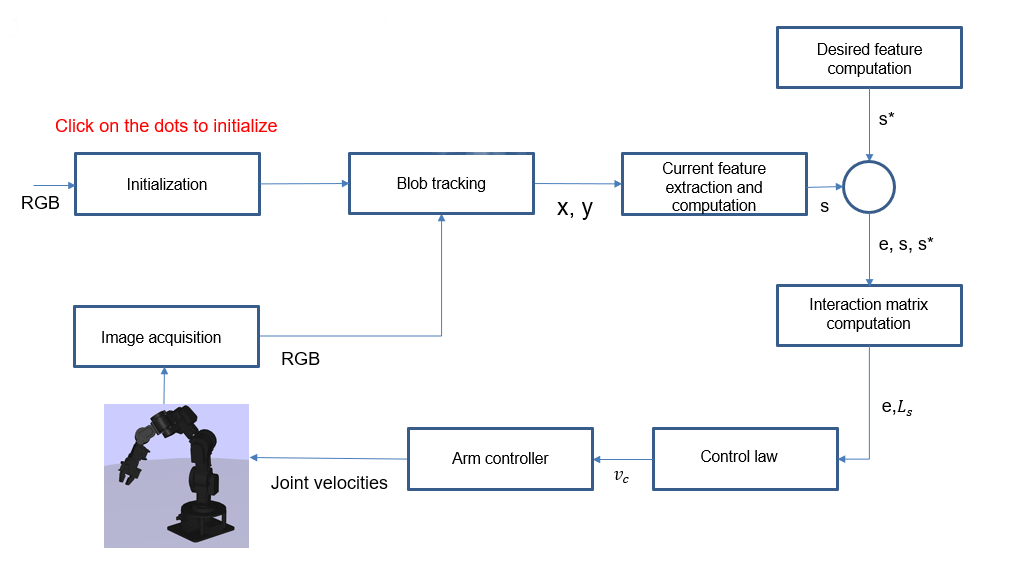
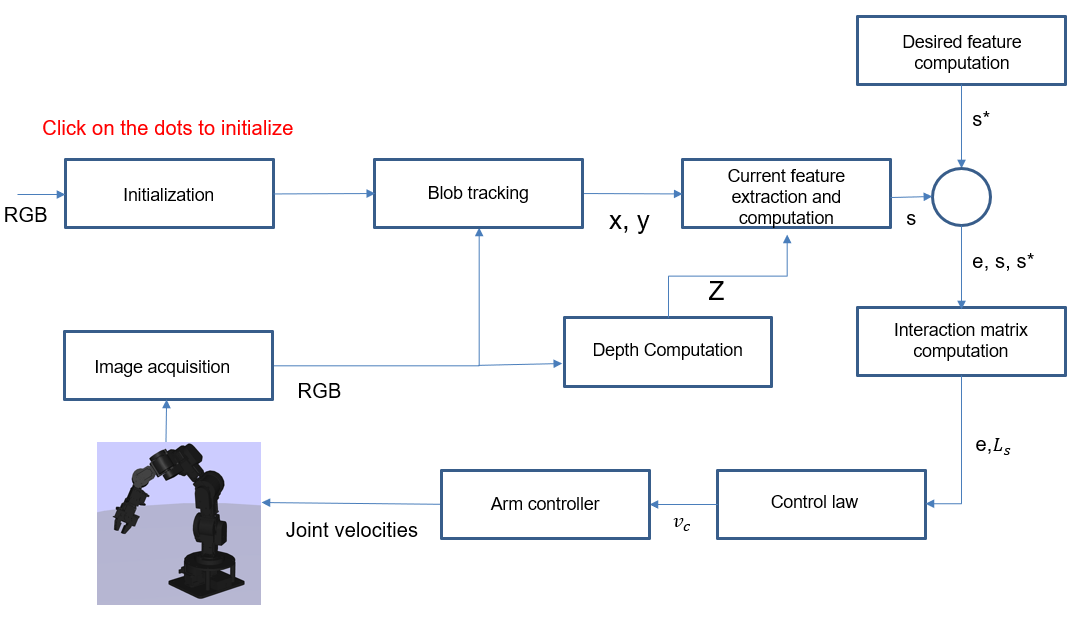
implementation section finish

diff --git a/chapters/Implementation.tex b/chapters/Implementation.tex
@@ -1,5 +1,4 @@
 %TEX root = ../dissertation.tex
-
 \chapter{Implementation}
 \label{chapter:Implementation}
 
@@ -20,7 +19,7 @@ Trajectory is planned, from the current pose to the desired pose, before the man
 
 \subsection{PBVS}
 
-During the period of my internship, another student was working at the time, on the development on a new controller for the arm. This work was based on developing an optimization based Cartesian controller for the arm (from an input desired pose and the current position of the end effector computing joint velocities to reach the desired pose with constraints on joint position). Combining this work with a pose estimation algorithm developed by another student using also YOLO, a \gls{PBVS} is implemented (\ref{chap:pbvs}). It is using the head camera of the robot, so an EYE-TO-HAND configuration (figure:\ref{pict:eye_in_hand}).
+During the period of my internship, another student was working at the time, on the development on a new controller for the manipulator. This work was based on developing an optimization based Cartesian controller for the manipulator (from an input desired pose and the current position of the end effector computing joint velocities to reach the desired pose with constraints on joint position). Combining this work with a pose estimation algorithm developed by another student using also YOLO, a \gls{PBVS} is implemented (\ref{chap:pbvs}). It is using the head camera of the robot, so an EYE-TO-HAND configuration (figure:\ref{pict:eye_in_hand}).
 \begin{figure} [!ht]
     \centering
     \includegraphics[width=0.95\linewidth]{images/pbvs.png}
@@ -28,7 +27,7 @@ During the period of my internship, another student was working at the time, on 
     \label{pict:pbvs_emilia}
 \end{figure}
 
-This controller is combining motion of the base and the arm. It has been designed as an optimization problem. For now, it applied constraints to avoid joint limits.
+This controller is combining motion of the base and the manipulator. It has been designed as an optimization problem. For now, it applied constraints to avoid joint limits.
 
 \section{Developed solutions}
 \label{developed_solution}
@@ -53,6 +52,7 @@ The two major benefits of using an \gls{IBVS} in a grasping approach are:
 In the next subsection, the tools used for this work will be described hardware and software.
 
 \subsection{Hardware and Software}
+\label{HardwareSoftware}
 To achieved the design and implementation of the previously described approach, we did not start from scratch. We used existing libraries, software and also of course an already very advanced robot  hardware speaking robot, Mbot.
 \subsubsection{Software}
 \begin{itemize}
@@ -102,10 +102,10 @@ Gazebo is a simulation software that is highly compatible with ROS development. 
     \item 
 \gls{YOLO} is a convolutional neural network used in this work to detect and extract features. It has been described in the the chapter \ref{chapter:Background} in section \ref{Object_detection}.
     \item 
-Controlling arm servos (sending commands to the joints of the arm), to this purpose two possibilities:
+Controlling manipulator servos (sending commands to the joints of the manipulator), to this purpose two possibilities:
     \begin{enumerate}
-        \item  An inverse kinematic controller, that take as input a desired velocity vector of the end effector and compute the corresponding joint velocities to achieve the desired velocity for the end effector. This "controller" only controls the arm and not the arm and the base of the robot combined to be able to reach a larger area when having a grasping approach. The well known problem when using inverse kinematic as described in section \ref{chap:inversekinematics} is singularities and local minima.
-        \item An optimization forward kinematic controller, developed during the time of my internship to use with his work on \gls{PBVS}. This "controller" controls the arm and the base at the same time. It takes as input a pose in world frame and output the joint velocities, more information on the section \ref{Previous_architecture}. Since it is an early development many problems appeared using this controller, like when doing the optimization not using the last joint or not taking as input velocities. One of my work was to convert this controller to be able to end effector velocities as input.
+        \item  An inverse kinematic controller, that take as input a desired velocity vector of the end effector and compute the corresponding joint velocities to achieve the desired velocity for the end effector. This "controller" only controls the manipulator and not the manipulator and the base of the robot combined to be able to reach a larger area when having a grasping approach. The well known problem when using inverse kinematic as described in section \ref{chap:inversekinematics} is singularities and local minima.
+        \item An optimization forward kinematic controller, developed during the time of my internship to use with his work on \gls{PBVS}. This "controller" controls the manipulator and the base at the same time. It takes as input a pose in world frame and output the joint velocities, more information on the section \ref{Previous_architecture}. Since it is an early development many problems appeared using this controller, like when doing the optimization not using the last joint or not taking as input velocities. One of my work was to convert this controller to be able to end effector velocities as input.
     \end{enumerate}
 
 \end{itemize}
@@ -140,38 +140,262 @@ The Intel® RealSense™ Depth Camera D435 uses stereo vision to calculate depth
 \end{figure}
 \end{itemize}
 
-In the next subsections we will present the developed solutions. The work will be divided in two part: a first solution and a final solution. When I start my internship, the robot was not equipped with the gripper camera fixed on the arm effector and before implementing your algorithm, it is usual to first test it inside simulation. So, the first implementation has been developed in simulation and the final solution has been implemented in simulation and inside the real robot. The main difference between these solutions is the way its initialized and the way the features are detected and extracted.
+In the next subsections we will present the developed solutions. The work will be divided in two part: a first solution and a final solution. When I start my internship, the robot was not equipped with the gripper camera fixed on the manipulator effector and before implementing your algorithm, it is usual to first test it inside simulation. So, he first implementation has been developed in simulation and the final solution has been implemented in simulation and inside the real robot. The main difference between these solutions is the way its initialized and the way the features are detected and extracted.
 
-\subsection{1st solution}
+\subsection{1st solution: Blob tracking}
   
-The first solution is based on a simple feature detection and tracking method called blob detection and tracking. Blob detection methods aimed at detecting regions in an image that differ in properties such as color, brightness for example compared to surrounding regions. Informally, a blob is a region of an image in which some properties defined by the user are constant or approximately constant. In simulation this blob are black point a juice box.\\
-The control scheme of this first implementation is described in the figure: \ref{pict:control_scheme_1}.
-\begin{figure} [!ht]
+The first solution is based on a simple feature detection and tracking method called blob detection and tracking. Blob detection methods aimed at detecting regions in an image that differ in properties such as color, brightness for example compared to surrounding regions.A blob is a region of an image in which properties defined are constant or approximately constant. In simulation this blob are black points on a juice box.
+The first step of this control scheme is the initialization, the user as to click with the mouse inside the display on the 4 dots. From these blobs, the \gls{COG} is computed : 4 image points with (x,y) coordinates.
+From this image point, 4 features are computed. The depth is computed from the surface of the blob using image moment and a scale factor.
+Desired features have been create previously depending which position of the gripper you want. Then the error is computed (to see how the error, the interaction matrix and finally the control is computed refer to section \ref{chap:ibvs}.
+\begin{figure} [!h]
     \centering
-    \includegraphics[width=1.\linewidth]{images/control_scheme_1.png}
-    \caption{First implementation control scheme}
+    \includegraphics[width=0.95\linewidth]{images/control_scheme_1.png}
+    \caption{First solution control scheme}
     \label{pict:control_scheme_1}
 \end{figure}
 
-The first step of this control scheme is the initialization, the user as to click with the mouse inside the display on the 4 dots. From this blob, the \gls{COG} is computed : one point with (x,y) coordinates. From
+The interaction matrix computed from 4 points is:
+\[
+L_s
+=
+\begin{bmatrix}
+    - \frac{1}{Z_1} & 0 & \frac{x_1}{Z_1} & x_1 y_1 & -(1+x_1^2) & y_1 \\
+    0 & - \frac{1}{Z_1} & \frac{y_1}{Z_1} & 1+y_1^2 & - x_1 y_1 & x_1  \\
+    - \frac{1}{Z_2} & 0 & \frac{x_2}{Z_2} & x_2 y_2 & -(1+x_2^2) & y_2 \\
+    0 & - \frac{1}{Z_2} & \frac{y_2}{Z_2} & 1+y_2^2 & - x_2 y_2 & x_2  \\
+    - \frac{1}{Z_3} & 0 & \frac{x_3}{Z_3} & x_3 y_3 & -(1+x_3^2) & y_3 \\
+    0 & - \frac{1}{Z_3} & \frac{y_3}{Z_3} & 1+y_3^2 & - x_3 y_3 & x_3  \\
+    - \frac{1}{Z_4} & 0 & \frac{x_4}{Z_4} & x_4 y_4 & -(1+x_4^2) & y_4 \\
+    0 & - \frac{1}{Z_4} & \frac{y_4}{Z_4} & 1+y_4^2 & - x_4 y_4 & x_4  
+\end{bmatrix}
+=
+\begin{bmatrix}
+    L_{x1} \\
+    L_{x2} \\
+    L_{x3} \\
+    L_{x4} 
+\end{bmatrix}
+\]
+To approximate the pseudo inverse matrix of the interaction matrix, we use the minimization approach :
+\[
+\Hat{L_s^+} = \frac{1}{2}(L_{s^*}^+ + L_s^+)
+\]
+with $L_{s^*}$, the interaction matrix similar to $L_s$ above but computed with the desired features.
+From this interaction matrix, the control law is compute:
+\begin{equation}
+\begin{bmatrix}
+    v_x \\
+    v_y \\
+    v_z \\
+    w_x \\
+    w_y \\
+    w_z
+\end{bmatrix}
+= - \lambda L_{s}^+ 
+\begin{bmatrix}
+    e_{x_1} \\
+    e_{y_1} \\
+    e_{x_2} \\
+    e_{y_2} \\
+    e_{x_3} \\
+    e_{y_3} \\
+    e_{x_4} \\
+    e_{y_4} 
+\end{bmatrix}
+\end{equation}
+The gain $\lambda$ is computed using an adaptive gain. It is a varying gain as:
+\begin{equation}
+    \lambda(||e||)
+    = 
+    (\lambda_0 - \lambda_\infty)
+    e^{-\frac{\lambda_{0}^{'}}{\lambda_0 - \lambda_\infty}}
+    + \lambda_\infty
+\end{equation}
+with $\lambda_0$, the gain for very small values of $||e||$, $\lambda_\infty$, the gain for very high values of $||e||$ and $\lambda_{0}^{'}$, the slope of $\lambda$ at $||e|| = 0$.
+The computed velocities are Cartesian camera velocities but since the camera is fixed on the end effector, we assume that it is the end effector Cartesian  velocities. 
+This vector is send to the manipulator controller that compute with inverse kinematic or optimization forward kinematic the joint velocities of the manipulator. Acquiring a new image and applying the same steps close the loop.
 
+\begin{figure} [!ht]
+    \begin{center}
+        \includegraphics[width=0.8\linewidth]{images/blob_tracking.png}
+    \end{center}
+    \begin{center}
+        \includegraphics[width=0.8\textwidth]{images/reach_blob_tracking.png}
+    \end{center}
+    \caption  {Blob tracking IBVS Initialization (top), Blob tracking IBVS desired end effector pose reached (bottom), in gazebo}
+     \label{pict:blob_tracking_reach}
+\end{figure}
 
+On figure \ref{pict:blob_tracking_reach}, the top picture shows the initialization where the user as to click on the blob (black points) to initialize the algorithm. In this picture the red cross represent the current features. In the bottom picture, the manipulator reached the desired pose for the end effector, the current features (green cross) are matching the desired features (red cross). 
 
-interaction matrix 2 parameters
-scheme
-pro cons
+\subsubsection{Result for the first implementation}
 
-\subsection{Final solution}
-interaction matrix 3 parameters
-scheme
-pro cons
+The manipulator reach the correct pose requested by the user (as it has been hardcoded by the position of the desired features in the image). With this method the 6DoF of the camera are controlled. Using the inverse kinematic controller, it is possible to compute the 7 joint velocities of the manipulator to apply the desired end effector velocity. This first implementation has been successfully implemented using the inverse kinematic Cartesian controller and the optimization forward kinematic controller (section:\ref{HardwareSoftware}). 
 
-\subsection{Results}
+It is only working in simulation, because having blob like this on a juice box, is not possible in real environment and the computation of the depth from the size of this blob would be really not precise (due to different lighting, different size of dots, ...). And for the main reason that at that time of my internship no camera were available fixed on the gripper, only in simulation.\\
 
-\subsubsection{1st implementation}
+To resume this first implementation :
+\begin{itemize}
+    \item Progress
+    \begin{enumerate}
+        \item IBVS visual servoing implemented in gazebo with both manipulator controllers.
+        \item Using blob tracking and 4 points, 6DoF are controlled
+        \item Depth computation from the surface of the blob
+    \end{enumerate}
+    \item Drawbacks
+    \begin{enumerate}
+        \item Blob tracking is not generic for different object types and not robust
+        \item Depth computation not robust
+        \item No real implementation
+    \end{enumerate}
+\end{itemize}
 
+\begin{figure}[!ht]
+     \centering
+     \subfloat{\includegraphics[width=0.495\linewidth]{images/courbe_4pts_blob_tracking_1.png}}\label{<figure_simulation_1>]}
+     \subfloat{\includegraphics[width=0.495\linewidth]{images/courbe_4pts_blob_tracking_2.png}}\label{<figure_simulation_2>]}
+     \caption{Camera velocities evolution during time, blob tracking method in simulation from different starting arm position}
+     \label{pict:plot_simulation_2}
+\end{figure}
+In figure \ref{pict:plot_simulation_2}, the exponential decrease is visible for the 6 velocities, it converges asymptotically and oscillations are very small (except for the z rotation, but this is due to the arm controller), the trajectory is smooth.
 
-\subsubsection{Final implementation}
+\subsection{Final solution: YOLO center bounding box}
+
+Looking at the first solution implemented and described in the previous section, the controller is not generic and not robust. Indeed, there are no black dots like in simulation in a real environment with real object. Also, when the manipulator is moving even in simulation or if the gripper goes in front of one dot, features are lost and the controller get stuck, so  definitely not robust. 
+
+It was time to find a new solution, more generic for multiple objects, more robust to manipulator motions and of course that suit more for a real environment implementation . The idea came to use a neural network already running inside the robot called YOLO (see section: \ref{Object_detection}). YOLO is trained with a set of objects, for example the objects that could be grasp inside the home environment. After this step, the algorithm is able to process as an object detection algorithm, giving the position of the object in the image (via a bounding box) and to classify the object (via class name, name of the object). 
+
+It is more robust to object occlusion or losing the object when moving than blob tracking. The main reason is that even if the object is only partially in the image, YOLO is still able to detect it. Also, It can be train with multiple real objects so It really suit an implementation in a real environment and of course from the fact that it can be trained with multiple objects makes it more generic. From the first solution implementation, it is improved our control law. 
+
+\begin{figure} [!h]
+    \centering
+    \includegraphics[width=1\linewidth]{images/final_control_scheme.png}
+    \caption{Final solution control scheme}
+    \label{pict:control_scheme_final}
+\end{figure}
+
+From YOLO bounding box, the controller algorithm extract the \gls{COG}, one point with (x,y) coordinates. Synchronized with the previous, the aligned depth map is received and convert to the proper unit. The next step is to compute the current feature from the point coordinates and the depth.
+Using the COG of the bounding box gives only one 2D point. If we only use this point like one from the previous solution, the controller would only control 2DoF because the interaction matrix will be of rank 2. To be able to at least control all DoF in translation, it is possible to create a third parameter from a 2D point $z = log( Z/Z^*)$, that defines the current depth ($Z$) relatives to the desired depth ($Z^*$) and so $s = (x, y, z)$. \\
+
+The next step is to filter the feature position. The algorithm use a low pass filter to attenuate the variation of the position of the \gls{COG}. Indeed, the motion of the arm and even the own vibrations of the manipulator makes the position of the bounding box really unstable, applying a low pass filter smooth these variations and makes easier to reach match the current feature and the desired one.
+The low pass filter equations used are:
+\[
+    x_{center+1} = x_{center} + \lambda*(x - x_{center}) 
+\]
+\[
+    y_{center + 1} = y_{center} + \lambda*(y - y_{center})
+\]
+The current feature is also created from a desired point in the image $s^*=(x, y, Z)$. The next step is to compute the error vector and the interaction matrix. The interaction matrix will be different from the one of the first implementation because only one point will be used and the feature used has three parameters (x, y, z) and not only two (x,y):
+\[ 
+Ls
+=
+\begin{bmatrix}
+    - \frac{1}{Z_1} & 0 & \frac{x_1}{Z_1} & x_1 y_1 & -(1+x_1^2) & y_1 \\
+    0 & - \frac{1}{Z_1} & \frac{y_1}{Z_1} & 1+y_1^2 & - x_1 y_1 & x_1  \\
+    0 & 0 &  - \frac{1}{Z_1} & -y_1 & x_1 & 0
+\end{bmatrix}
+\]
+The steps to compute the interaction matrix are exactly the same than the one presented in section \ref{chap:ibvs} but with using the extra parameters per feature $ z = log(Z/Z^*)$
+With only one point and with this interaction matrix, it is possible to compute the 3 linear velocities (velocities translational motions only, not rotational). This method is refereed as 2-1/2D hybrid visual servoing in section \ref{hybrid}. This algorithm will only control the translational motion of the camera. A 3D pose estimation algorithm would have to be add in future work to compute the rotational motion.
+To estimate the interaction, the same from previous solution minimization method is used:
+
+\[
+\Hat{L_s^+} = \frac{1}{2}(L_{s^*}^+ + L_s^+)
+\]\\
+
+The control law computed from this interaction matrix is:
+\begin{equation}
+\begin{bmatrix}
+    v_x \\
+    v_y \\
+    v_z 
+\end{bmatrix}
+= - \lambda L_{s}^+ 
+\begin{bmatrix}
+    e_{x_1} \\
+    e_{y_1} \\
+    e_{z_1}
+\end{bmatrix}
+\end{equation} \\
+The same adaptive gain is used for $\lambda$, refer to previous solution for more details. 
+The last step is to send the velocities to the end effector. 
+This final solution was implemented in simulation first and then inside the real robot.\\
+
+In figure \ref{pict:yolo_simulation_real}, the green cross represents the current feature $s$ and the red cross represent the desired feature $s^*$. 
+
+\begin{figure}[!ht]
+     \centering
+     \subfloat{\includegraphics[width=0.43\textwidth]{images/yolo_simulation.png}}\label{<figure_simulation>]}
+     \subfloat{\includegraphics[width=0.563\textwidth]{images/yolo_real.png}}\label{<figure_real>]}
+     \caption{YOLO center bounding box method in simulation (left), YOLO center bounding box method in real robot (right)}
+     \label{pict:yolo_simulation_real}
+\end{figure}
+
+On the left picture of figure \ref{pict:yolo_simulation_real}, the YOLO center bounding box method is shown inside gazebo. YOLO can also be trained with real objects and work in simulation with the same simulated objects.
+
+On the right picture of figure \ref{pict:yolo_simulation_real}, the final solution is running inside the real robot using the Intel realsense D435 camera.
+
+\subsubsection{Results for the final implementation}
+
+The manipulator reach the correct pose requested by the user as it has been hardcoded by the position of the desired features in the image, here the center of the gripper. With this method only 3DoF of the camera are controlled. Using the inverse kinematic controller, it is possible to compute the 7 joint velocities of the manipulator to apply the desired end effector velocity. This final implementation has been successfully implemented  in gazebo simulation and inside the real robot using the inverse kinematic Cartesian controller only (section:\ref{HardwareSoftware}). For unknown reasons at the moment, this algorithm is not working with the optimization forward kinematic controller but it is an implementation error not a theoretical. \\
+
+In the figure \ref{pict:yolo_simulation_plot}, the exponential decrease is visible for the 3 velocities, it converges  and oscillations are very small (except for the z rotation, but this is due to the arm controller), the trajectory is smooth. \\
+
+In simulation, the "working" conditions are perfect (arm calibrations, camera calibrations, lighting, objects always similar). It is not a surprise to have such results.
+\newpage
+\begin{figure} [!h]
+    \centering
+    \includegraphics[width=0.6\linewidth]{images/yolo_plot_simulation.png}
+    \caption{Camera velocities evolution during time, using YOLO center bounding box method}
+    \label{pict:yolo_simulation_plot}
+\end{figure}
+
+The difference between an implementation in simulation and in a real environment is illustrated by the difference between \ref{pict:yolo_simulation_plot} and \ref{pict:yolo_real_plot}. It is obvious that first the trajectory is less smooth and the oscillations are more important in a real environment. 
+
+Figure \ref{pict:yolo_real_plot} is showing the evolution of the camera velocities during time. In the top graphic of figure \ref{pict:yolo_real_plot}, it starts to converge but finally diverge with strong oscillations. \\
+
+It can be due to contradictory velocities send to the arm controller created by oscillations of the arm due to the controller having difficulties to find a solution to the inverse kinematic problem. In chain oscillations of the manipulator create an image and feature that change of position more frequently and with more offset that in chain compute wrong velocities to the arm controller. 
+
+The inverse kinematic Cartesian controller not finding a solution to reach the desired end effector velocities can be due to falling into a singularity problem. There are various type of cause to singularities but with a manipulator with 7DoF and 7 joints it is mostly due to the fact that there are an infinite number of solutions and without adding constraints to the problem, the arm controller is not able to choose one. Multiplying the features is a way to avoid singularities.
+
+It can also be due to the fact that the object is not reachable in the actual position of the arm, the arm controller keeping trying to reach the desired position create oscillation that as the effect described before.
+
+Another issue, that has been encountered but that cannot be illustrated by this graphic because it would not be visible is falling into local minima. It is due to the approximation of the interaction matrix that might be not full rank and the system get trap in a local minimum. In this graphic that would mean that all velocities values have converged to 0 but the pose of the end effector is not the one desired, $e \neq 0$ but $ \hat e = 0$. \\
+
+When not falling into singularities or local minima, an exponential asymptotic convergence can be observed like in the bottom graphic of the figure \ref{pict:yolo_real_plot}.
+\newpage
+\begin{figure}[!ht]
+     \centering
+     \subfloat{\includegraphics[width=0.7\textwidth]{images/courbe_yolo_1.png}}\label{<figure_simulation>]}
+     \subfloat{\includegraphics[width=0.7\textwidth]{images/courbe_yolo_2.png}}\label{<figure_real>]}
+     \caption{Evolution of the camera velocities during time, using YOLO center bounding box method in real robot}
+     \label{pict:yolo_real_plot}
+\end{figure}
+
+To resume this final implementation :
+\begin{itemize}
+    \item Progress
+    \begin{enumerate}
+        \item 
+IBVS visual servoing implemented in gazebo and inside real robot with inverse kinematic Cartesian controller.
+        \item 
+Using YOLO center point box, 1 feature, 3DoF are controlled, only translational motions but very generic algorithm
+        \item 
+Depth computation from Intel camera D435, aligned to RGB image and synchronized with YOLO bounding box up to 16 cm (object already inside the gripper).
+        \item
+Robust to dynamic environment (moving object for example), to arm motions and to partial obstructions of the object (because partially in the image or because gripper finger in front)
+        \item 
+Algorithm real time
+    \end{enumerate}
+    \item Drawbacks
+    \begin{enumerate}
+        \item The object has to stay in sight. 
+        \item Singularities and local minima from the compute of the control law and from the inverse kinematic Cartesian controller.
+        \item No rotational motions control 
+    \end{enumerate}
+\end{itemize}
+
 
 
 

diff --git a/chapters/Background.tex b/chapters/Background.tex
@@ -8,7 +8,7 @@ This chapter provides fundamentals of theoretical knowledge required to understa
 \section{Object Detection and Features Extractions}
 \label{Object_detection}
 
-Object detection is the fist step performed by the presented controller. This detection is used to classify and track the object in real-time when the arm is moving (since the camera is fixed to the end effector) but also if the object is moved since the controller is used in a dynamic environment. Feature extraction is the second step performed by the controller and is used to compute the visual servoing control law.
+Object detection is the fist step performed by the presented controller. This detection is used to classify and track the object in real-time when the manipulator is moving (since the camera is fixed to the end effector) but also if the object is moved since the controller is used in a dynamic environment. Feature extraction is the second step performed by the controller and is used to compute the visual servoing control law.
 
 \subsection{Objection detection}
 
@@ -360,6 +360,7 @@ Usually the trajectory is better followed in 3D space than in image space due to
 \end{figure}
 
 \subsection{Hybrid}
+\label{hybrid}
 
 In the two previous sections, the two main methods for \gls{VS}, where presented. A combination of these methods is also possible, it is called Hybrid visual servoing. The basic idea behind hybrid visual servoing is to decouple the Z axis motions (including
 both the translational and the rotational components) from the other DoF. In this section, one method of hybrid visual servoing will be presented but it is not the only possibilities, more methods are present in the literature. 

diff --git a/dissertation.tex b/dissertation.tex
@@ -14,6 +14,7 @@
 % Line spacing package
 \usepackage{graphicx, helvet, hyperref, setspace}
 \usepackage{wrapfig}
+\usepackage{subfig}
 \usepackage[portuguese,english]{babel}
 \usepackage[acronym, toc]{glossaries}
 \input{extra_stuff.tex}

diff --git a/chapters/Conclusion.tex b/chapters/Conclusion.tex
@@ -2,4 +2,9 @@
 
 \chapter{Conclusion}
 \label{chapter:conclusion}
-Conclusion here...
+
+\section{General conclusion}
+\subsection{Work during internship}
+\subsection{Future work}
+
+\section{Life in Portugal}
